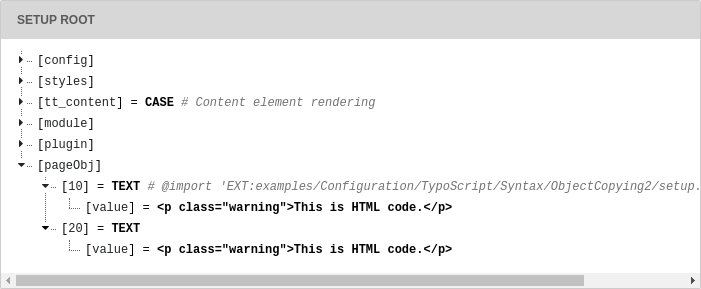
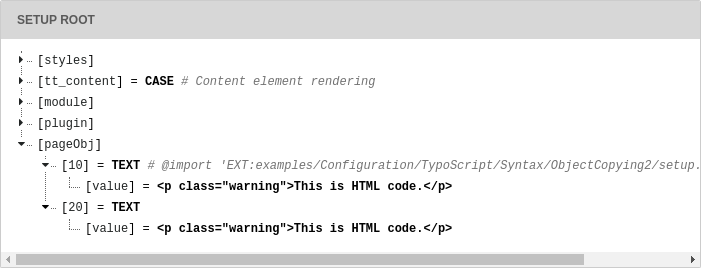
[TASK] Automate TypoScript Syntax Screenshots and CodeSnippets refs https://github.com/TYPO3-Documentation/t3docs-screenshots/issues/149

diff --git a/Documentation/ApiOverview/TypoScriptSyntax/Syntax/Introduction.rst b/Documentation/ApiOverview/TypoScriptSyntax/Syntax/Introduction.rst
@@ -18,12 +18,7 @@ conveys the idea of defining objects/properties.
 Example
 =======
 
-.. code-block:: typoscript
-
-   myObject = [value 1]
-   myObject.myProperty = [value 2]
-   myObject.myProperty.firstProperty = [value 3]
-   myObject.myProperty.secondProperty = [value 4]
+.. include:: /CodeSnippets/TypoScriptSyntax/Syntax/Introduction.rst.txt
 
 Referring to :code:`myObject` we might call it: "*an object with the value
 [value 1] and the property, 'myProperty' with the value [value 2].
@@ -37,5 +32,4 @@ section further of the two using reference documents
 :ref:`TSconfig Reference <t3tsconfig:typoscript-syntax-using-setting>`.
 The above piece of TypoScript would look like this:
 
-.. figure:: /Images/ManualScreenshots/TypoScriptSyntax/SyntaxIntroduction.png
-   :alt: Example TypoScript code
+.. include:: /Images/AutomaticScreenshots/TypoScriptSyntax/SyntaxIntroduction.rst.txt

diff --git a/Documentation/ApiOverview/TypoScriptSyntax/Syntax/TypoScriptSyntax.rst b/Documentation/ApiOverview/TypoScriptSyntax/Syntax/TypoScriptSyntax.rst
@@ -342,8 +342,7 @@ In this case, the :code:`stdWrap.wrap` property of :code:`anotherObject`
 will indeed be :code:`<h1>|<h1>`. In tree view the properties
 of the reference are not shown. Only the reference itself is visible:
 
-.. figure:: /Images/ManualScreenshots/TypoScriptSyntax/SyntaxReferencing.png
-   :alt: An object and a reference of it.
+.. include:: /Images/AutomaticScreenshots/TypoScriptSyntax/SyntaxReferencing.rst.txt
 
 Remember:
 
